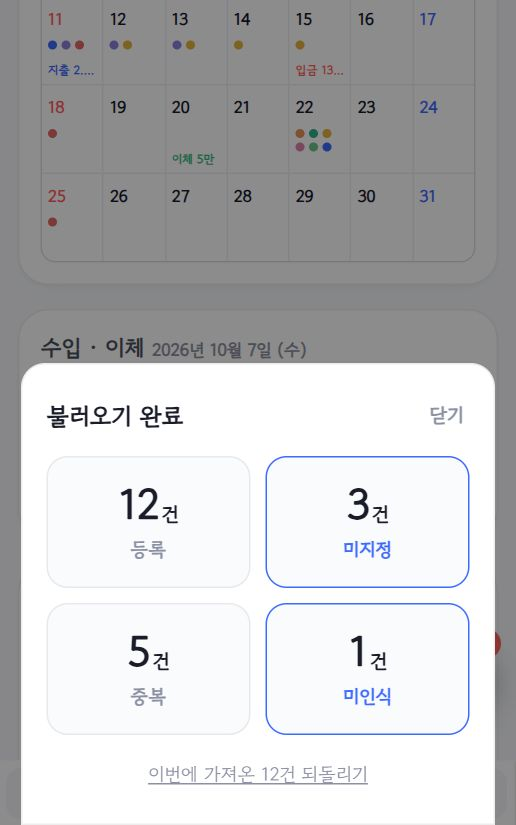
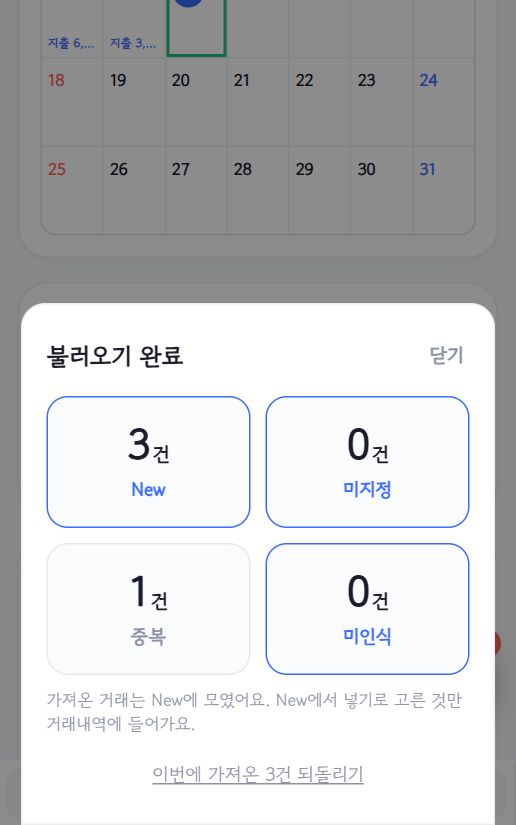
상단 ‹ › 달 넘기기, HOME 최근 거래 8건+더보기(모바일), 도움말 갱신
- 모바일 상단 날짜 버튼 양옆에 이전 달/다음 달 화살표(년/월 목록 선택은 그대로)
- 모바일 HOME 최근 거래: 8건 → 더보기 16건 → 전체 보기
- 도움말: HOME·가족코드 창·문자함 불러오기 미리보기/결과 재캡처, 불러오기·New 설명을 New 경유로 수정

diff --git a/help/help-data.js b/help/help-data.js
@@ -10,25 +10,26 @@
  * 좌표 잡는 법과 갱신 절차는 .agents/skills/help-manual/SKILL.md 참고.
  */
 window.GB_HELP_DATA = {
-  version: '2026-10-10',
+  version: '2026-10-13',
   device: 'Galaxy Z Fold5 접은 화면 344×882',
   screens: [
     {
       id: 'home', tab: 'HOME', title: 'HOME (홈)', image: 'img/home.jpg',
-      desc: '선택한 달의 거래와 요약, 추이 그래프를 한눈에 봐요. 앱에서는 HOME에서 뒤로가기를 누르면 종료할지 물어봐요.',
+      desc: '선택한 달의 거래와 요약, 추이 그래프를 한눈에 봐요. 상단 ‹ › 로 달을 넘겨요. 앱에서는 HOME에서 뒤로가기를 누르면 종료할지 물어봐요.',
       points: [
-        { n: 1, x: 4.1, y: 0.9, title: '년/월 선택', text: '지금 보고 있는 년·월이에요. 누르면 년/월 선택 창이 열려요. 달을 바꾸면 모든 화면의 숫자가 그 달 기준으로 바뀌어요.' },
-        { n: 2, x: 52.8, y: 1.1, title: '가족코드 신호등', text: '초록 점은 가족코드로 연결되어 실시간 동기화 중, 빨간 점은 미연결이에요. 옆에 현재 가족코드가 보여요. 누르면 가족코드를 입력하거나 연결 상태를 볼 수 있어요.' },
-        { n: 3, x: 89, y: 0.9, title: '설정(톱니바퀴)', text: '모든 화면 오른쪽 위에 있어요. 누르면 설정 화면으로 가요. 도움말도 설정 안에 있어요.' },
-        { n: 4, x: 9, y: 6.8, title: '최근 거래', text: '위에서 고른 달의 거래를 모두 보여줘요(거래내역 목록과 같아요). 달을 바꾸면 그 달 거래로 바뀌어요. 날짜는 일(예: 27일)만 표시해요. 담당자에게 색을 정하면 그 색이 행 바탕에 보여요(설정 > 함께 쓰는 사람).' },
-        { n: 5, x: 64.8, y: 6.3, title: '보기 필터', text: '지출만, 수입만 등 보일 거래 종류를 골라요.' },
-        { n: 6, x: 9.6, y: 13.9, title: '구분 동그라미와 풍선', text: '맨 앞 동그라미 글자는 구분이에요(지: 지출, 수: 수입, 이: 이체). 줄을 누르면 대분류·소분류가 풍선(말풍선)으로 보여요.' },
-        { n: 7, x: 4.7, y: 30.1, title: '지출·수입·저축·순자산', text: '선택한 달의 요약이에요. 금액은 가려져 있고, 카드를 누르면 금액이 보여요.' },
-        { n: 8, x: 9, y: 42.4, title: '수입·지출 추이', text: '최근 3개월·6개월·1년 중 기간을 골라 월별 수입·지출 흐름을 봐요.' },
-        { n: 9, x: 60.9, y: 72.3, title: '카테고리 비중', text: '지출/수입 버튼으로 바꿔 가며 대분류별 비중을 도넛 그래프로 봐요.' },
-        { n: 10, x: 78.8, y: 90.9, title: 'New', text: '앱 전용 버튼이에요. 새로 온 카드 승인 문자·알림이 여기에 모여요. 누르면 New 목록이 열리고, 거래내역에 넣을지 버릴지 골라요. 빨간 숫자는 아직 고르지 않은 건수예요.' },
-        { n: 11, x: 4.1, y: 97.4, title: '하단 메뉴', text: 'HOME·거래내역·일정·계좌현황·예산·리포트로 이동해요. 칸이 좁으면 옆으로 밀어서 봐요.' },
-        { n: 12, x: 32.3, y: 97.4, title: '말풍선 배지', text: '거래내역 위 빨간 말풍선 숫자는 미지정 거래 수예요(대분류·소분류·계좌·담당·내역 중 빈칸이 있는 거래).' }
+        { n: 1, x: 4.1, y: 0.9, title: '이전 달 / 다음 달', text: '‹ 를 누르면 지난달, › 를 누르면 다음 달로 넘어가요. 모든 화면의 숫자가 그 달 기준으로 바뀌어요.' },
+        { n: 2, x: 13.4, y: 0.8, title: '년/월 선택', text: '지금 보고 있는 년·월이에요. 누르면 년/월 선택 창이 열려 원하는 달로 바로 가요.' },
+        { n: 3, x: 55, y: 1.0, title: '가족코드 신호등', text: '초록 점은 가족코드로 연결되어 실시간 동기화 중, 빨간 점은 미연결이에요. 옆에 현재 가족코드가 보여요(칸이 좁으면 줄여서 보여요). 누르면 가족코드를 입력하거나 연결 상태를 볼 수 있어요.' },
+        { n: 4, x: 89, y: 0.8, title: '설정(톱니바퀴)', text: '모든 화면 오른쪽 위에 있어요. 누르면 설정 화면으로 가요. 도움말도 설정 안에 있어요.' },
+        { n: 5, x: 7.8, y: 5.7, title: '최근 거래', text: '위에서 고른 달의 거래를 최근 것부터 8건 보여줘요. 날짜는 일(예: 27일)만 표시해요. 담당자에게 색을 정하면 그 색이 행 바탕에 보여요(설정 > 함께 쓰는 사람).' },
+        { n: 6, x: 64.8, y: 5.5, title: '보기 필터', text: '지출만, 수입만 등 보일 거래 종류를 골라요.' },
+        { n: 7, x: 8.4, y: 11.4, title: '구분 동그라미와 풍선', text: '맨 앞 동그라미 글자는 구분이에요(지: 지출, 수: 수입, 이: 이체). 줄을 누르면 대분류·소분류가 풍선(말풍선)으로 보여요.' },
+        { n: 8, x: 34.2, y: 33.9, title: '더보기 / 전체 보기', text: '"더보기"를 누르면 8건을 더 보여주고, 한 번 더 누르면("전체 보기") 그 달 거래를 모두 보여줘요. 달이나 보기 필터를 바꾸면 다시 8건부터 보여요.' },
+        { n: 9, x: 4.7, y: 38.3, title: '지출·수입·저축·순자산', text: '선택한 달의 요약이에요. 금액은 가려져 있고, 카드를 누르면 금액이 보여요.' },
+        { n: 10, x: 7.8, y: 48.9, title: '수입·지출 추이', text: '최근 3개월·6개월·1년 중 기간을 골라 월별 수입·지출 흐름을 봐요.' },
+        { n: 11, x: 60.5, y: 75.4, title: '카테고리 비중', text: '지출/수입 버튼으로 바꿔 가며 대분류별 비중을 도넛 그래프로 봐요.' },
+        { n: 12, x: 78.8, y: 91.9, title: 'New', text: '앱 전용 버튼이에요. 새로 온 카드 승인 문자·알림과 문자함에서 불러온 거래가 여기에 모여요. 누르면 New 목록이 열리고, 거래내역에 넣을지 버릴지 골라요. 빨간 숫자는 아직 고르지 않은 건수예요.' },
+        { n: 13, x: 2.3, y: 97.7, title: '하단 메뉴와 말풍선 배지', text: 'HOME·거래내역·일정·계좌현황·예산·리포트로 이동해요. 거래내역 위 빨간 말풍선 숫자는 미지정 거래 수예요(대분류·소분류·계좌·담당·내역 중 빈칸이 있는 거래).' }
       ]
     },
     {
@@ -152,7 +153,7 @@ window.GB_HELP_DATA = {
       id: 'popup-kebab', tab: '⋮ 메뉴', title: '⋮ 메뉴 (예: 거래내역 설정)', image: 'img/popup-kebab.jpg',
       desc: '카드 오른쪽 위 ⋮ 를 누르면 그 화면에 필요한 메뉴가 열려요. 일정·계좌현황·예산에도 있어요.',
       points: [
-        { n: 1, x: 10.1, y: 69.7, title: '문자함 불러오기', text: '앱 전용이에요. 휴대폰 문자함의 지난 카드·은행 문자를 기간·카드사를 골라 한 번에 가져와요. 미리보기를 보고 가져오면 New를 거치지 않고 바로 거래내역에 들어가요.' },
+        { n: 1, x: 10.1, y: 69.7, title: '문자함 불러오기', text: '앱 전용이에요. 휴대폰 문자함의 지난 카드·은행 문자를 기간·카드사를 골라 한 번에 가져와요. 미리보기를 보고 가져오면 New에 모이고, New에서 넣기로 고른 것만 거래내역에 들어가요.' },
         { n: 2, x: 10.1, y: 75.6, title: '문자/카카오톡 붙여넣기', text: '결제 문자나 카카오톡 알림 내용을 붙여넣으면 거래로 읽어 등록해요.' },
         { n: 3, x: 10.1, y: 81.5, title: '거래내역 불러오기', text: '은행·카드사에서 받은 엑셀(.xlsx)·CSV 파일을 올려 한 번에 등록해요. 계좌번호는 필요 없어요.' },
         { n: 4, x: 10.1, y: 87.4, title: '표 내용 붙여넣기', text: '파일 업로드가 잘 안 되면 엑셀·카드사 화면의 표를 복사해 붙여넣어도 똑같이 인식해요.' },
@@ -164,32 +165,33 @@ window.GB_HELP_DATA = {
       id: 'popup-import-preview', tab: '불러오기 미리보기', title: '문자함 불러오기 — 미리보기', image: 'img/popup-import-preview.jpg',
       desc: '거래내역 ⋮ > 문자함 불러오기에서 기간·카드사를 고르고 "다음"을 누르면 가져오기 전에 보여줘요.',
       points: [
-        { n: 1, x: 10.1, y: 69.5, title: '읽은 문자', text: '휴대폰에서 읽은 문자 수예요. 단문과 장문(긴 카드 승인 문자)을 나눠 보여줘요. 0건이면 기간이나 문자 권한을 확인하세요. 권한이 꺼져 있으면 빨간 안내와 "문자 권한 요청" 버튼이 나와요.' },
-        { n: 2, x: 10.1, y: 72.0, title: '신규 / 중복 / 인식 못 함', text: '새로 들어갈 건수와 카드사별 수, 이미 있어서 빼는 중복 건수, 거래로 읽지 못한 건수예요.' },
-        { n: 3, x: 8.4, y: 78.6, title: '새로 들어갈 거래', text: '가져오면 거래내역에 들어갈 거래를 최근 것부터 최대 10건 보여줘요.' },
+        { n: 1, x: 8.9, y: 58.2, title: '읽은 문자', text: '휴대폰에서 읽은 문자 수예요. 단문과 장문(긴 카드 승인 문자)을 나눠 보여줘요. 0건이면 기간이나 문자 권한을 확인하세요. 권한이 꺼져 있으면 빨간 안내와 "문자 권한 요청" 버튼이 나와요.' },
+        { n: 2, x: 8.9, y: 60.9, title: 'New에 / 중복 / 인식 못 함', text: 'New에 들어갈 건수와 카드사별 수, 이미 있어서 빼는 중복 건수, 거래로 읽지 못한 건수예요. 가족코드에 그 카드사 계좌가 없으면 숨김 건수도 보여요.' },
+        { n: 3, x: 7.2, y: 67.2, title: '새로 들어갈 거래', text: '가져오면 New에 들어갈 거래를 최근 것부터 최대 10건 보여줘요.' },
         { n: 4, x: 10.1, y: 87.1, title: '전에 처리한 문자도 다시 확인', text: 'New에서 버렸거나 예전에 걸러진 문자는 원래 중복으로 빼요. 체크하면 그중 지금 거래내역·New에 없는 것만 다시 가져와요.' },
-        { n: 5, x: 10.1, y: 93.3, title: '가져오기 / 뒤로', text: '가져오기를 누르면 거래내역에 바로 들어가요. 뒤로는 기간·카드사 선택으로 돌아가요.' }
+        { n: 5, x: 10.1, y: 93.3, title: '가져오기 / 뒤로', text: '가져오기를 누르면 New에 모여요(거래내역에는 아직 안 들어가요). 뒤로는 기간·카드사 선택으로 돌아가요.' }
       ]
     },
     {
       id: 'popup-import-result', tab: '불러오기 결과', title: '불러오기 결과', image: 'img/popup-import-result.jpg',
-      desc: '거래내역 ⋮ 메뉴의 문자함 불러오기로 지난 문자를 가져오면 결과를 4칸으로 보여줘요. 지난 내역은 New를 거치지 않고 바로 거래내역에 들어가요.',
+      desc: '거래내역 ⋮ 메뉴의 문자함 불러오기로 지난 문자를 가져오면 결과를 4칸으로 보여줘요. 가져온 거래는 New에 모이고, New에서 넣기로 고른 것만 거래내역에 들어가요.',
       points: [
-        { n: 1, x: 11.3, y: 56.7, title: '등록', text: '거래내역에 바로 들어간 건수예요.' },
-        { n: 2, x: 53.8, y: 56.7, title: '미지정', text: '들어간 거래 중 빈칸(대분류·소분류·계좌·담당·내역)이 있는 건수예요. 누르면 미지정 목록이 열려요.' },
-        { n: 3, x: 11.3, y: 74.5, title: '중복', text: '이미 있거나 이미 처리한(버린 것 포함) 거래라 빼고 넘어간 건수예요.' },
-        { n: 4, x: 53.8, y: 74.5, title: '미인식', text: '거래로 읽지 못한 알림 수예요. 누르면 인식 못 한 알림 목록에서 직접 확인하거나 수동 등록해요.' },
-        { n: 5, x: 86.5, y: 50.3, title: '닫기', text: '결과 창을 닫아요.' },
-        { n: 6, x: 28.1, y: 91.6, title: '되돌리기', text: '잘못 가져왔으면 이번에 가져온 거래만 한 번에 지워요. 같은 기간을 다시 불러올 수 있게 돼요.' }
+        { n: 1, x: 10.1, y: 48.7, title: 'New', text: 'New에 들어간 건수예요. 누르면 New 목록이 열려 넣을지 버릴지 골라요.' },
+        { n: 2, x: 52.6, y: 48.7, title: '미지정', text: '거래내역에 바로 들어간 거래 중 빈칸이 있는 건수예요(보통 0건 — 가져온 거래는 New에 있어요). 누르면 미지정 목록이 열려요.' },
+        { n: 3, x: 10.1, y: 66.5, title: '중복', text: '이미 있거나 이미 처리한(버린 것 포함) 거래라 빼고 넘어간 건수예요.' },
+        { n: 4, x: 52.6, y: 66.5, title: '미인식', text: '거래로 읽지 못한 알림 수예요. 누르면 인식 못 한 알림 목록에서 직접 확인하거나 수동 등록해요.' },
+        { n: 5, x: 83.2, y: 41.0, title: '닫기', text: '결과 창을 닫아요.' },
+        { n: 6, x: 8.9, y: 83.3, title: '안내', text: '가져온 거래는 New에 모였다는 안내예요. New에서 넣기로 고른 것만 거래내역에 들어가요.' },
+        { n: 7, x: 28.9, y: 91.7, title: '되돌리기', text: '잘못 가져왔으면 이번에 가져온 거래만 한 번에 지워요(New에 있는 것과 이미 넣은 것 모두). 같은 기간을 다시 불러올 수 있게 돼요.' }
       ]
     },
     {
       id: 'popup-review', tab: 'New', title: 'New 목록', image: 'img/popup-review.jpg',
-      desc: '새로 온 카드 승인 문자·알림이 먼저 여기에 모여요. 넣기로 고른 것만 거래내역에 들어가요. 플로팅 버튼 New나 설정의 New 목록으로 열어요. 가족코드에 연결돼 있으면 그 가족코드에 같은 카드사·은행 계좌(예: 이름에 "현대"가 들어간 계좌)가 있는 거래만 보여요. 없는 건 지우지 않고 숨겨 두었다가 계좌를 만들면 나타나요(설정에 숨긴 건수가 보여요).',
+      desc: '새로 온 카드 승인 문자·알림과 문자함에서 불러온 거래가 먼저 여기에 모여요. 넣기로 고른 것만 거래내역에 들어가요. 플로팅 버튼 New나 설정의 New 목록으로 열어요. 가족코드에 연결돼 있으면 그 가족코드에 같은 카드사·은행 계좌(예: 이름에 "현대"가 들어간 계좌)가 있는 거래만 보여요. 없는 건 지우지 않고 숨겨 두었다가 계좌를 만들면 나타나요(설정에 숨긴 건수가 보여요).',
       points: [
         { n: 1, x: 10.1, y: 4.5, title: 'New', text: '아직 거래내역에 넣지 않은 새 거래예요. 넣기 전에는 거래내역·달력·통계·잔액에 영향이 없어요.' },
         { n: 2, x: 12.1, y: 14.4, title: '전체 선택', text: '목록 전체를 한 번에 고르거나 풀어요. 오른쪽에 고른 개수가 보여요.' },
-        { n: 3, x: 10.1, y: 30.9, title: '한 줄 — 고르기 / 펼치기', text: '체크박스로 하나씩 골라요. 줄을 누르면 펼쳐져 대분류·소분류·계좌를 고친 뒤 그 거래만 "넣기" 또는 "버리기"를 할 수 있어요.' },
+        { n: 3, x: 10.1, y: 30.9, title: '한 줄 — 고르기 / 펼치기', text: '체크박스로 하나씩 골라요. 줄을 누르면 펼쳐져 대분류·소분류·계좌·담당을 고른 뒤 그 거래만 "넣기" 또는 "버리기"를 할 수 있어요.' },
         { n: 4, x: 34.2, y: 36, title: '추정 분류', text: '전에 입력한 거래를 보고 짐작한 대분류예요. 못 정하면 "분류 없음"으로 보여요. 빈칸이 있는 채로 넣으면 미지정 목록으로 가요.' },
         { n: 5, x: 12.1, y: 61.1, title: '대분류·소분류·계좌·담당', text: '고른 거래에 한꺼번에 넣을 값을 정해요. 비워 두면 각 거래의 원래 값으로 넣어요.' },
         { n: 6, x: 12.1, y: 78.2, title: '선택 넣기', text: '고른 거래를 거래내역에 넣어요.' },
@@ -227,9 +229,9 @@ window.GB_HELP_DATA = {
       id: 'popup-cloud', tab: '가족코드', title: '가족코드 연결 창', image: 'img/popup-cloud.jpg',
       desc: '상단의 "가족코드 미연결"을 누르면 열려요. 앱은 다음에 켤 때 최근 가족코드로 자동 접속해요. 설정에서 연결을 해제한 경우에만 다시 코드를 물어봐요.',
       points: [
-        { n: 1, x: 52.8, y: 1.7, title: '가족코드 신호등', text: '빨간 점 "가족코드 미연결"은 동기화 없이 이 기기에서만 쓰는 상태예요. 연결되면 초록 점과 코드가 보여요.' },
+        { n: 1, x: 55, y: 1.7, title: '가족코드 신호등', text: '빨간 점 "가족코드 미연결"은 동기화 없이 이 기기에서만 쓰는 상태예요. 연결되면 초록 점과 코드가 보여요.' },
         { n: 2, x: 10.1, y: 84.7, title: '가족코드 입력', text: '가족과 정한 코드를 입력해요. 같은 코드를 쓰는 기기끼리 실시간으로 같은 가계부를 봐요.' },
-        { n: 3, x: 69.6, y: 94.0, title: '연결하기 / 취소', text: '연결하기를 누르면 동기화가 시작돼요. 취소하면 연결 없이 계속 써요.' }
+        { n: 3, x: 51.6, y: 94.0, title: '취소 / 연결하기', text: '연결하기를 누르면 동기화가 시작돼요. 취소하면 연결 없이 계속 써요.' }
       ]
     }
   ]

diff --git a/index.html b/index.html
@@ -607,6 +607,7 @@
 
   /* 6차: 모바일 전용/데스크톱 전용 표시 유틸(모바일 기준 = 760px 이하, JS 는 window.innerWidth<=760 로 판정 — matchMedia 금지) */
   .m-only { display:none !important; }
+  @media (min-width: 761px){ #recent-more { display:none !important; } }   /* 16차: 홈 최근 거래 더보기는 모바일 전용(.m-only 는 인라인 숨김을 덮어써서 안 씀) */
   @media (max-width: 760px){ .m-only { display:revert !important; } .d-only { display:none !important; } }
   /* 6차 보완: 모바일 거래내역 하위 탭은 아이콘 없이 글자 박스로(즐겨찾기 옆 '미지정' 칩이 한 화면에 보이도록) */
   @media (max-width: 760px){ .tx-subtab-btn .tab-ico { display:none; } .tx-subtab-btn { padding-left:10px !important; padding-right:10px !important; } }
@@ -685,6 +686,12 @@
     border-radius:10px; padding:5px 10px; font-size:13.5px; font-weight:700; white-space:nowrap; flex:0 0 auto;
   }
   #m-ym-btn .caret { font-size:10px; color:var(--muted); }
+  /* 17차: 모바일 상단 날짜 버튼 양옆 '이전 달 / 다음 달' 화살표(데스크톱은 #month-picker 의 ‹ › 를 그대로 씀) */
+  .m-ym-arrow { display:none; }
+  @media (max-width: 760px){
+    .m-ym-arrow { display:inline-flex; align-items:center; justify-content:center; flex:0 0 auto; width:26px; height:30px; padding:0;
+      border:1px solid var(--border); background:var(--card); color:var(--text-primary); border-radius:10px; font-size:17px; font-weight:700; line-height:1; cursor:pointer; }
+  }
   #m-cloud-pill {
     align-items:center; gap:5px; border:1px solid var(--border); background:var(--page); color:var(--text-secondary);
     border-radius:20px; padding:4px 10px; font-size:11.5px; font-weight:700; white-space:nowrap; min-width:0; flex:0 1 auto;
@@ -873,7 +880,9 @@
         <button id="next-month">›</button>
         <button class="btn small" id="today-btn">오늘</button>
       </div>
+      <button type="button" class="m-ym-arrow" id="m-prev-month" aria-label="이전 달">‹</button>
       <button type="button" id="m-ym-btn" aria-label="년/월 선택"><span id="m-ym-label"></span><span class="caret">▾</span></button>
+      <button type="button" class="m-ym-arrow" id="m-next-month" aria-label="다음 달">›</button>
     </div>
     <div class="tb-right">
       <button type="button" id="m-cloud-pill" aria-label="가족코드 동기화"><span class="dot"></span><span class="lbl">가족코드</span><span class="code">미연결</span></button>
@@ -909,6 +918,7 @@
             </div>
           </div>
           <table id="recent-tx-table"><thead><tr><th class="m-only" aria-label="구분"></th><th class="m-only">날짜</th><th class="m-only num">금액</th><th class="d-only" aria-label="구분"></th><th class="d-only">날짜</th><th class="d-only">대분류</th><th class="d-only">소분류</th><th><span class="d-only">내용</span><span class="m-only">내역</span></th><th>담당</th><th class="d-only num">금액</th></tr></thead><tbody></tbody></table>
+          <div id="recent-more" style="display:none;text-align:center;margin-top:10px"><button type="button" class="btn small" id="recent-more-btn" style="min-height:40px;padding:0 18px">더보기</button></div>
         </div>
         <div class="card stat-tile stat-tile-toggle" id="stat-tile-expense" data-stat-key="expense">
           <div class="label">지출 <span class="stat-eye">👁</span></div>
@@ -1728,6 +1738,7 @@ let assetsShowHiddenOnly = false;
 let assetsSelectedIds = new Set();
 let __assetsSelKey = null;
 let dashRecentFilter = '지출';
+let dashRecentStep = 0, dashRecentMoreKey = '';   // 16차: 모바일 홈 최근 거래 더보기 단계(0=8건, 1=16건, 2=전체)
 let dashStatRevealed = { expense:false, income:false, save:false, networth:false };
 /* 대시보드 대분류 원형 차트: 지출/수입 각각 독립적으로 드릴다운(선택한 대분류) 상태를 기억한다. null이면 대분류 단계 */
 let dashCatDrill = { '지출': null, '수입': null };
@@ -2581,7 +2592,21 @@ function renderDashboard(){
   const recentPool = dashRecentFilter === 'all' ? recentBase : recentBase.filter(t=>t.type===dashRecentFilter);
   const recent = [...recentPool].sort((a,b)=> b.date.localeCompare(a.date) || b.id.localeCompare(a.id));
   const tbody = document.getElementById('recent-tx-table').querySelector('tbody');
-  tbody.innerHTML = recent.length ? recent.map(rowHtmlSimple).join('') : `<tr><td colspan="7" class="empty-state">이 달 거래가 없어요.</td></tr>`;
+  // 16차: 모바일은 처음 8건 → '더보기' 16건 → '전체 보기'로 그 달 전체. 달·보기 필터가 바뀌면 다시 8건부터. PC는 그대로 전체.
+  let shown = recent;
+  const moreBox = document.getElementById('recent-more');
+  try {
+    const key = currentYM + '|' + dashRecentFilter;
+    if (dashRecentMoreKey !== key){ dashRecentMoreKey = key; dashRecentStep = 0; }
+    if (window.innerWidth <= 760 && dashRecentStep < 2) shown = recent.slice(0, dashRecentStep ? 16 : 8);
+    if (moreBox){
+      const left = recent.length - shown.length;
+      moreBox.style.display = left > 0 ? '' : 'none';
+      const mb = document.getElementById('recent-more-btn');
+      if (mb) mb.textContent = dashRecentStep === 0 ? `더보기 (${Math.min(8, left)}건 더)` : `전체 보기 (${left}건 더)`;
+    }
+  } catch (e) { shown = recent; if (moreBox) moreBox.style.display = 'none'; }
+  tbody.innerHTML = shown.length ? shown.map(rowHtmlSimple).join('') : `<tr><td colspan="7" class="empty-state">이 달 거래가 없어요.</td></tr>`;
 
   renderTrendChart();
   renderDashCatSection();
@@ -7274,6 +7299,11 @@ document.addEventListener('DOMContentLoaded', ()=>{
 
   document.getElementById('prev-month').onclick = ()=>{ currentYM = addMonths(currentYM,-1); renderAll(); };
   document.getElementById('next-month').onclick = ()=>{ currentYM = addMonths(currentYM,1); renderAll(); };
+  // 17차: 모바일 상단 화살표도 같은 동작
+  try{
+    document.getElementById('m-prev-month').onclick = ()=>{ currentYM = addMonths(currentYM,-1); renderAll(); };
+    document.getElementById('m-next-month').onclick = ()=>{ currentYM = addMonths(currentYM,1); renderAll(); };
+  }catch(_){ /* 무시 */ }
   document.getElementById('today-btn').onclick = ()=>{ currentYM = todayStr().slice(0,7); calSelectedDate = todayStr(); scheduleSelectedDate = todayStr(); renderAll(); };
   // 6차(1·2·3·8번): 모바일 상단바 전용 버튼 + 설정의 '화면 모드'. 초기화 경로라 try/catch 로 격리.
   try{
@@ -7306,6 +7336,13 @@ document.addEventListener('DOMContentLoaded', ()=>{
     dashRecentFilter = e.target.value;
     renderAll();
   });
+  // 16차: 모바일 홈 '최근 거래' 더보기(8 → 16 → 전체)
+  try{
+    document.getElementById('recent-more-btn').addEventListener('click', ()=>{
+      dashRecentStep = Math.min(2, dashRecentStep + 1);
+      renderDashboard();
+    });
+  }catch(_){ /* 무시 */ }
   // 7차(7번): 모바일 홈 '최근 거래' 줄을 누르면 그 줄 근처에 '대분류 > 소분류' 말풍선. 다른 곳을 누르거나 스크롤하면 닫힘.
   // 초기화 경로라 try/catch 로 격리(실패해도 앱 동작에 영향 없음).
   try{
